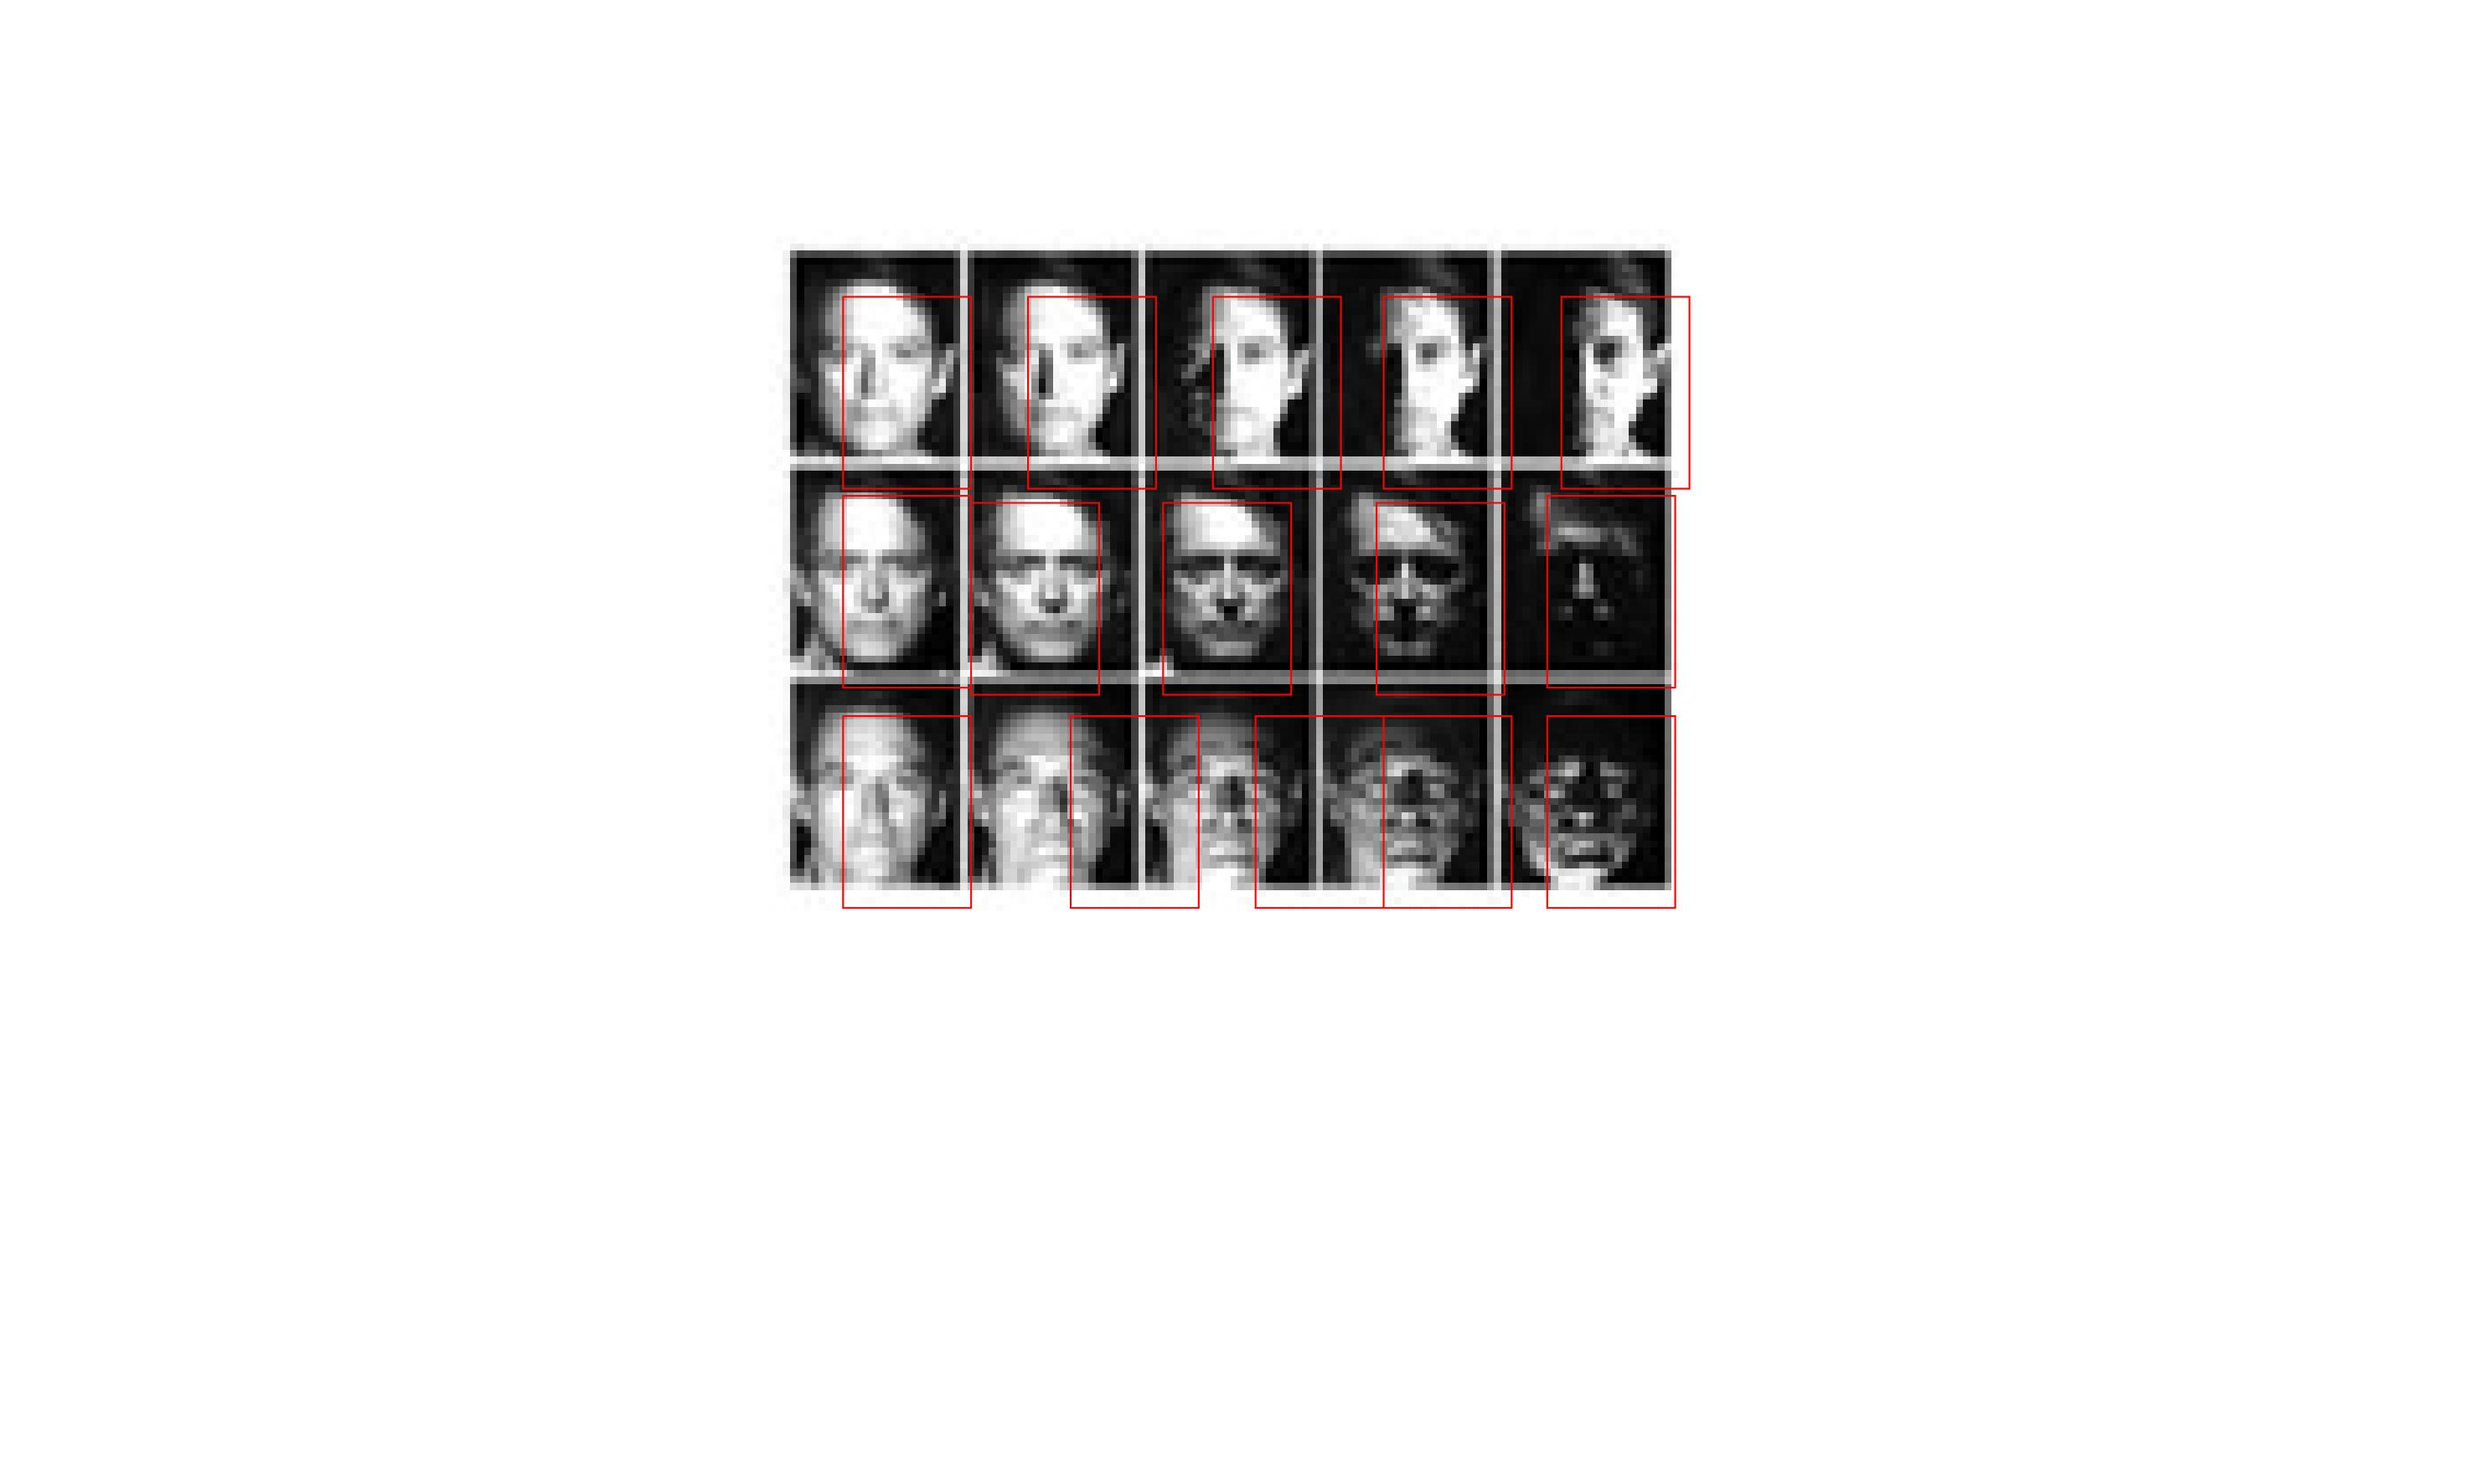
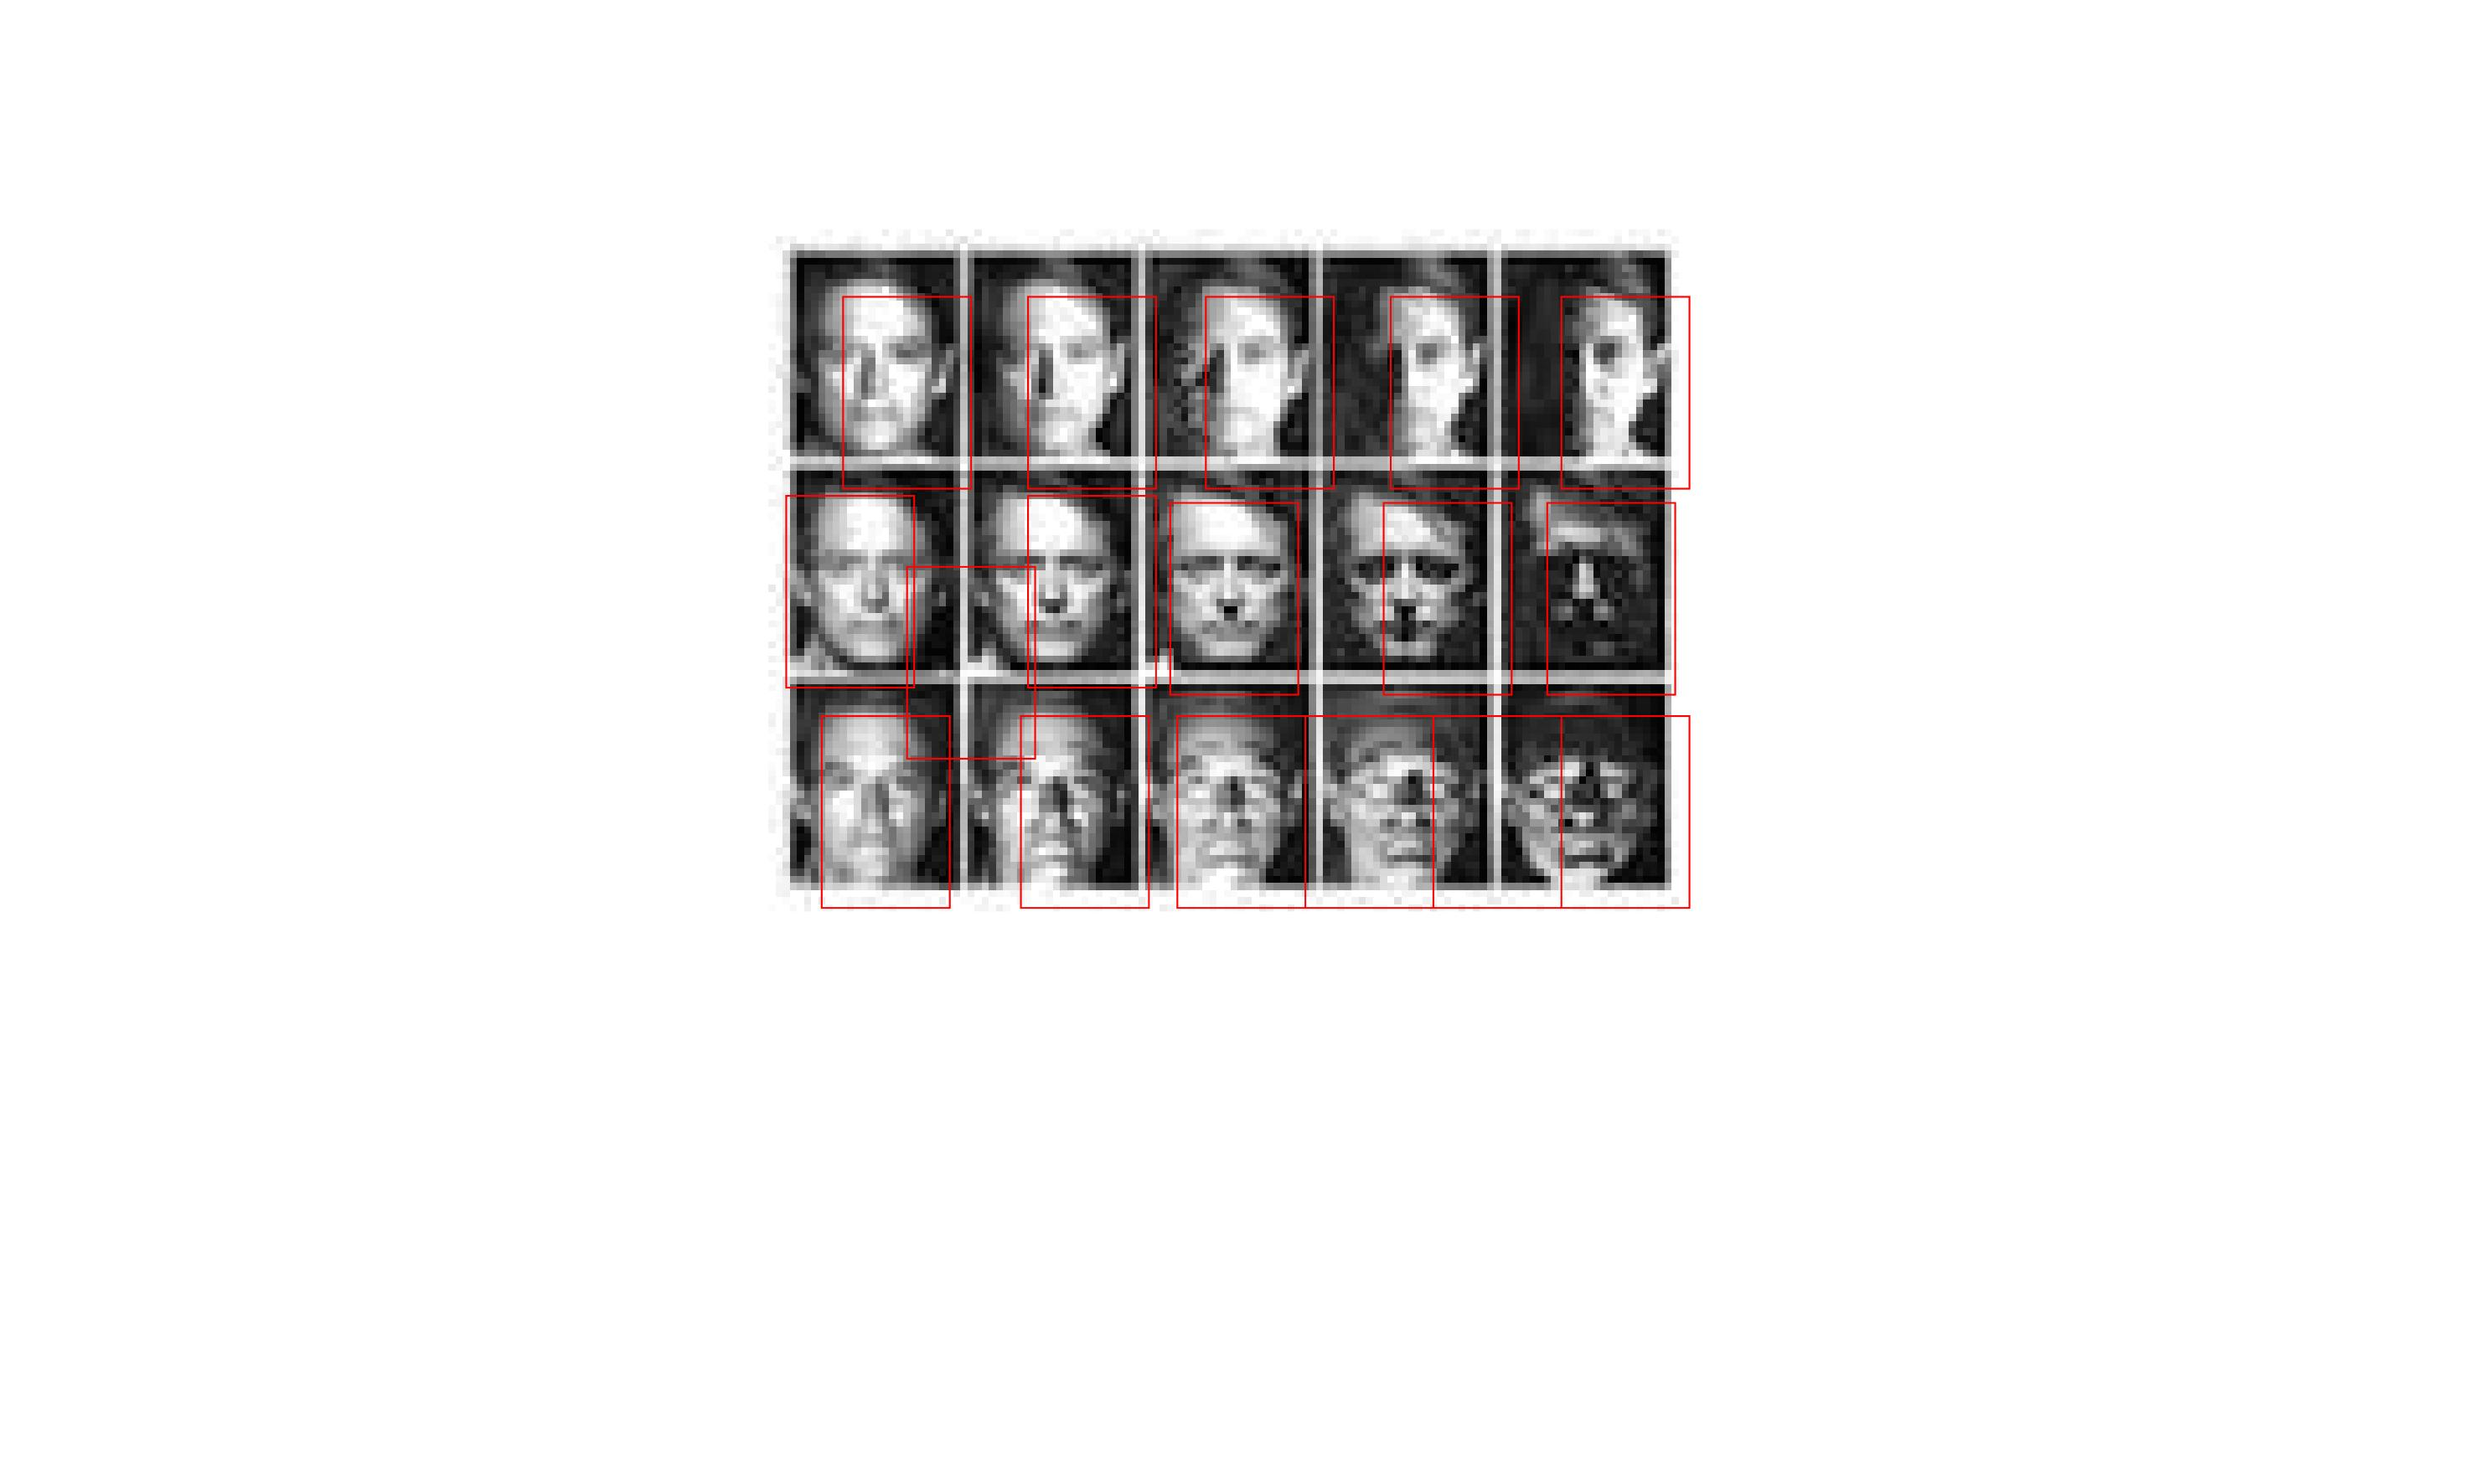
Modified detector box to be green with line weight of three for visibility, need to run other detectors than HOG-GAB to regenrate results

Changed region(s): [[0.3115, 0.1552, 0.6854, 0.6208]]

diff --git a/code/gabor_SVM_Detector.m b/code/gabor_SVM_Detector.m
@@ -22,6 +22,10 @@ for iNumber = 1:4
     fprintf("Starting image number %d\n", iNumber);
     figure(iNumber);
     thisImg = cell2mat(images(iNumber));
+    
+    % Performs contrast enhancement using matlabs adapthisteq function
+    thisImg = adapthisteq(thisImg);
+    
     imshow(thisImg); % Shows Image
 
     % Gets boundingboxes for the test image, this should indicate a face
@@ -33,7 +37,7 @@ for iNumber = 1:4
     
     % Goes through all of the bounding boxes and displays them on the image
     for i = 1:size(bBoxes,1) 
-        rectangle('Position',[bBoxes(i, 1),bBoxes(i, 2),bBoxes(i, 3) - bBoxes(i, 1),bBoxes(i, 4) - bBoxes(i, 2)],'LineWidth',1, 'EdgeColor','r');
+        rectangle('Position',[bBoxes(i, 1),bBoxes(i, 2),bBoxes(i, 3) - bBoxes(i, 1),bBoxes(i, 4) - bBoxes(i, 2)],'LineWidth',3, 'EdgeColor','g');
     end
     fprintf("Bounding Boxes drawn for image number %d\n", iNumber);
     

diff --git a/code/hog_SVM_Detector.m b/code/hog_SVM_Detector.m
@@ -21,6 +21,10 @@ for iNumber = 1:4
     fprintf("Starting image number %d\n", iNumber);
     figure(iNumber);
     thisImg = cell2mat(images(iNumber));
+    
+    % Performs contrast enhancement using matlabs adapthisteq function
+    thisImg = adapthisteq(thisImg);
+    
     imshow(thisImg); % Shows Image
 
     % Gets boundingboxes for the test image, this should indicate a face
@@ -32,7 +36,7 @@ for iNumber = 1:4
     
     % Goes through all of the bounding boxes and displays them on the image
     for i = 1:size(bBoxes,1) 
-        rectangle('Position',[bBoxes(i, 1),bBoxes(i, 2),bBoxes(i, 3) - bBoxes(i, 1),bBoxes(i, 4) - bBoxes(i, 2)],'LineWidth',1, 'EdgeColor','r');
+        rectangle('Position',[bBoxes(i, 1),bBoxes(i, 2),bBoxes(i, 3) - bBoxes(i, 1),bBoxes(i, 4) - bBoxes(i, 2)],'LineWidth',3, 'EdgeColor','g');
     end
     fprintf("Bounding Boxes drawn for image number %d\n", iNumber);
     

diff --git a/code/hog_gab_SVM_Detector.m b/code/hog_gab_SVM_Detector.m
@@ -19,7 +19,7 @@ images{4} = imread('images/im4.jpg');
 prefix = "results/hog_gab_SVM_im";
 suffix = ".jpg";
 
-for iNumber = 1:5
+for iNumber = 1:4
     fprintf("Starting image number %d\n", iNumber);
     figure(iNumber);
     thisImg = cell2mat(images(iNumber));
@@ -38,7 +38,7 @@ for iNumber = 1:5
     
     % Goes through all of the bounding boxes and displays them on the image
     for i = 1:size(bBoxes,1) 
-        rectangle('Position',[bBoxes(i, 1),bBoxes(i, 2),bBoxes(i, 3) - bBoxes(i, 1),bBoxes(i, 4) - bBoxes(i, 2)],'LineWidth',1, 'EdgeColor','r');
+        rectangle('Position',[bBoxes(i, 1),bBoxes(i, 2),bBoxes(i, 3) - bBoxes(i, 1),bBoxes(i, 4) - bBoxes(i, 2)],'LineWidth',3, 'EdgeColor','g');
     end
     fprintf("Bounding Boxes drawn for image number %d\n", iNumber);
     

diff --git a/code/fullImage_SVM_Detector.m b/code/fullImage_SVM_Detector.m
@@ -33,7 +33,7 @@ for iNumber = 1:4
     
     % Goes through all of the bounding boxes and displays them on the image
     for i = 1:size(bBoxes,1) 
-        rectangle('Position',[bBoxes(i, 1),bBoxes(i, 2),bBoxes(i, 3) - bBoxes(i, 1),bBoxes(i, 4) - bBoxes(i, 2)],'LineWidth',1, 'EdgeColor','r');
+        rectangle('Position',[bBoxes(i, 1),bBoxes(i, 2),bBoxes(i, 3) - bBoxes(i, 1),bBoxes(i, 4) - bBoxes(i, 2)],'LineWidth',3, 'EdgeColor','g');
     end
     fprintf("Bounding Boxes drawn for image number %d\n", iNumber);
     

diff --git a/code/reducedDimensionality_SVM_Detector.m b/code/reducedDimensionality_SVM_Detector.m
@@ -34,7 +34,7 @@ for iNumber = 1:4
     
     % Goes through all of the bounding boxes and displays them on the image
     for i = 1:size(bBoxes,1) 
-        rectangle('Position',[bBoxes(i, 1),bBoxes(i, 2),bBoxes(i, 3) - bBoxes(i, 1),bBoxes(i, 4) - bBoxes(i, 2)],'LineWidth',1, 'EdgeColor','r');
+        rectangle('Position',[bBoxes(i, 1),bBoxes(i, 2),bBoxes(i, 3) - bBoxes(i, 1),bBoxes(i, 4) - bBoxes(i, 2)],'LineWidth',3, 'EdgeColor','g');
     end
     fprintf("Bounding Boxes drawn for image number %d\n", iNumber);
     
